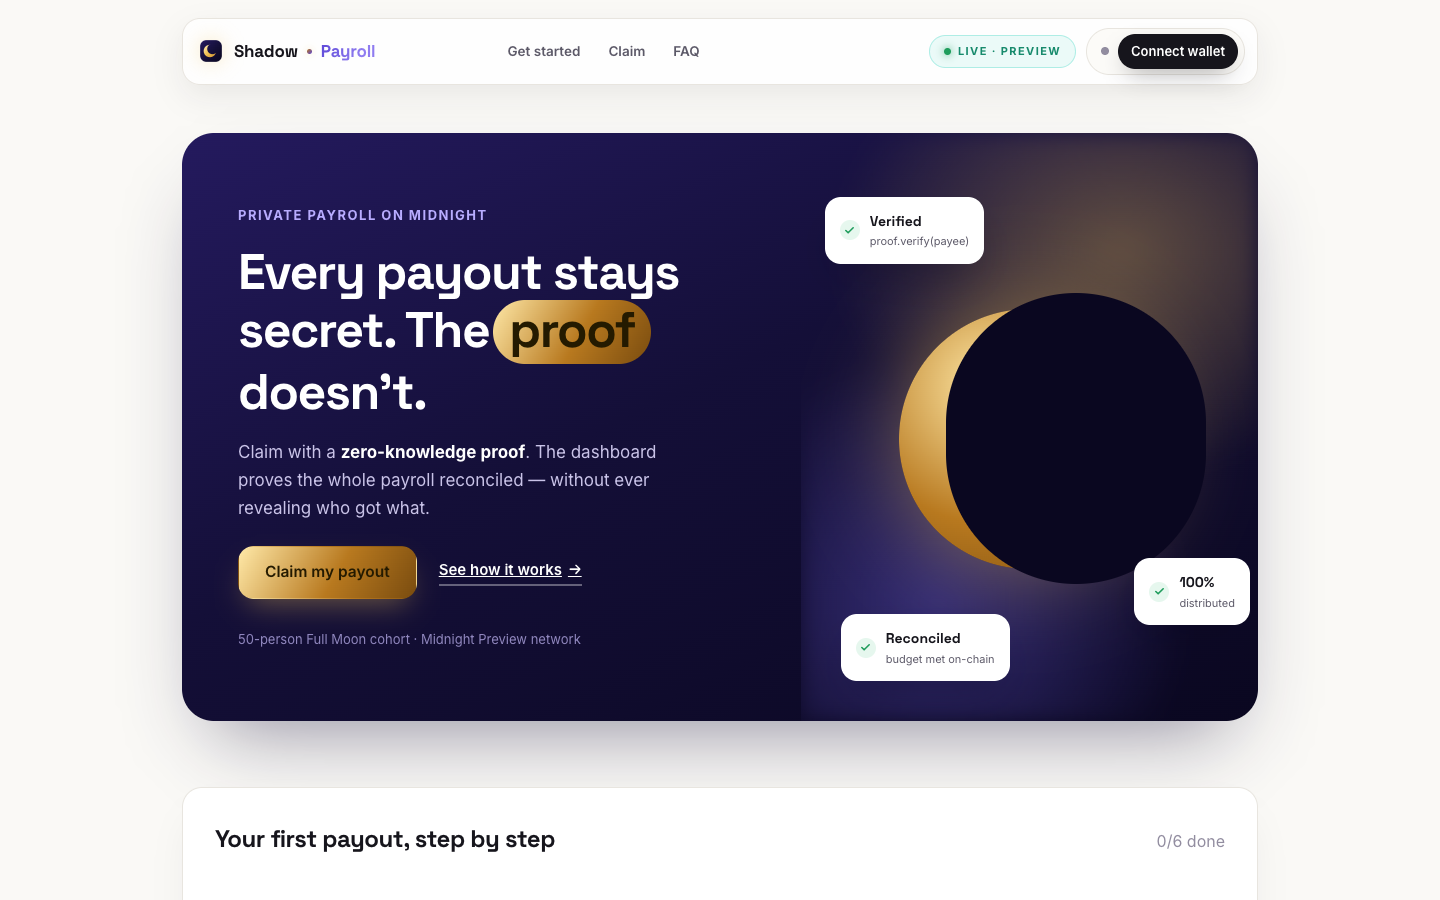
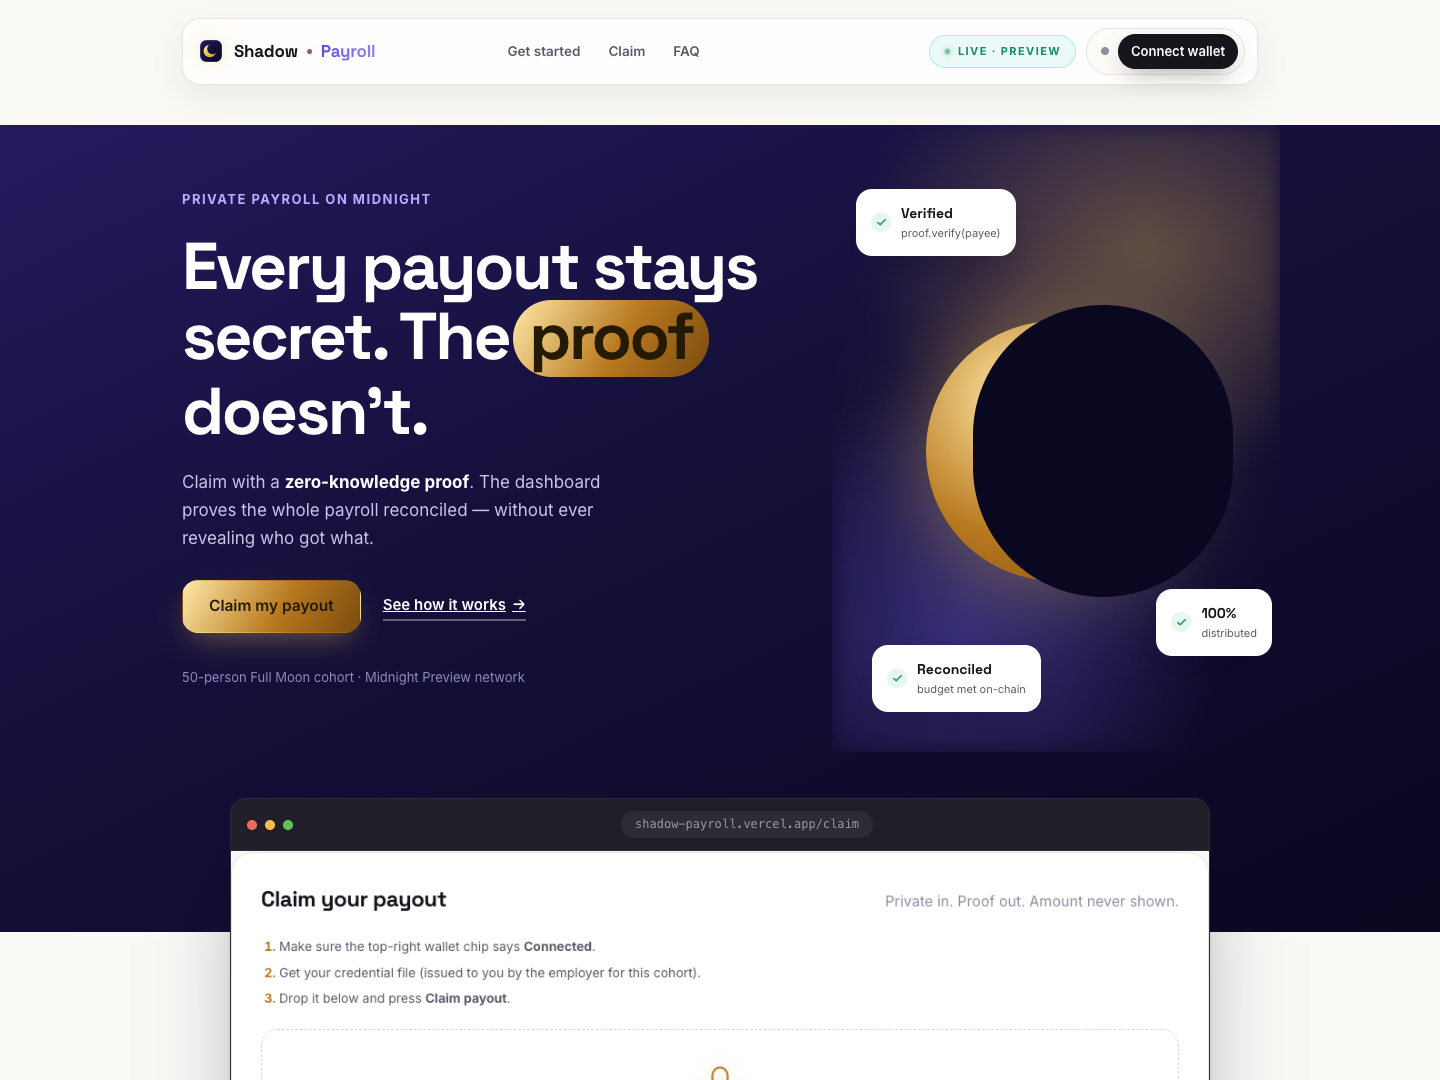
redesign(frontend): rebuild the hero and onboarding from real UI references
Reviewer feedback was explicit: not another AI-prompted tweak pass, but
a rebuild grounded in real design references. Studied Linear, Mercury,
and Deel directly (screenshotted, not guessed from memory) and borrowed
concretely from each — see docs/DESIGN.md for the reference-by-reference
breakdown of what was studied and what changed as a result.

- Hero breaks full-bleed out of the page's 1120px container (Mercury)
  instead of sitting boxed with the same rounded-card treatment as every
  other section.
- Headline scale bumped ~35% (clamp 40-68px, -2.5px tracking, 1.04
  line-height) for actual visual confidence (Linear).
- New product-proof section: a real, browser-chrome-framed screenshot of
  the claim panel straddling the hero/page boundary (Linear's "show the
  actual product" convention) — previously nothing on the page proved
  the product was real, only copy and illustrative cards.
- Onboarding steps rebuilt as a connected vertical timeline (rail behind
  numbered nodes) instead of six identical stacked bordered boxes — the
  clearest "assembled from a component library" tell on the page.
- Removed the reflexive hover-lift applied to every section card
  regardless of whether it was interactive.

diff --git a/frontend/src/App.css b/frontend/src/App.css
@@ -659,28 +659,116 @@ a {
 
 /* ---------- Hero ---------- */
 
+/* Full-bleed: breaks out of .page's max-width so the hero reads as the
+   dominant moment on the page, not another rounded card in the stack.
+   overflow-x: clip on html/body (see top of file) keeps the 100vw trick
+   from introducing horizontal scroll. */
 .hero {
-  position: relative;
-  padding: 22px 0 40px;
-}
-
-/* The one bold graphic moment on an otherwise calm, light page. Re-scopes
-   the shared tokens the same way .status-card does, so every descendant
-   rule below resolves against the dark palette instead of the page's
-   light one. */
-.hero__card {
   --text-primary: #ffffff;
   --text-secondary: #c9c3e8;
   --text-muted: #8f86bd;
 
   position: relative;
-  display: grid;
-  grid-template-columns: 1.15fr 0.85fr;
-  border-radius: 32px;
-  overflow: hidden;
-  min-height: 540px;
+  width: 100vw;
+  margin-left: calc(50% - 50vw);
+  margin-right: calc(50% - 50vw);
+  margin-top: 14px;
+  padding-bottom: 180px;
   background: linear-gradient(155deg, #241a5e 0%, #140f38 45%, #0a0720 100%);
-  box-shadow: 0 40px 80px -30px rgba(20, 15, 56, 0.45);
+  overflow: hidden;
+}
+
+/* The product proof: a real screenshot of the claim panel, framed like a
+   browser window and pulled up to straddle the hero/page boundary. This
+   is the one thing pure copy-and-cards can't fake -- it shows the actual
+   product instead of describing it. */
+.mockup-section {
+  position: relative;
+  margin-top: -160px;
+  margin-bottom: 8px;
+  z-index: 4;
+  display: flex;
+  justify-content: center;
+}
+
+.mockup-frame {
+  width: 100%;
+  max-width: 980px;
+  border-radius: 16px;
+  overflow: hidden;
+  background: #1c1a24;
+  border: 1px solid rgba(255, 255, 255, 0.08);
+  box-shadow: 0 50px 90px -30px rgba(10, 7, 32, 0.55), 0 0 0 1px rgba(10, 7, 32, 0.04);
+}
+
+.mockup-frame__bar {
+  display: flex;
+  align-items: center;
+  gap: 8px;
+  padding: 12px 16px;
+  background: #201e29;
+  border-bottom: 1px solid rgba(255, 255, 255, 0.06);
+}
+
+.mockup-frame__dot {
+  width: 10px;
+  height: 10px;
+  border-radius: 999px;
+  background: rgba(255, 255, 255, 0.16);
+}
+
+.mockup-frame__dot--red { background: #ec6a5e; }
+.mockup-frame__dot--yellow { background: #f4bf4f; }
+.mockup-frame__dot--green { background: #61c454; }
+
+.mockup-frame__url {
+  margin: 0 auto;
+  padding: 4px 14px;
+  border-radius: 999px;
+  background: rgba(255, 255, 255, 0.06);
+  color: rgba(255, 255, 255, 0.5);
+  font-size: 12px;
+  font-family: ui-monospace, SFMono-Regular, Menlo, monospace;
+}
+
+.mockup-frame__img {
+  display: block;
+  width: 100%;
+  height: auto;
+}
+
+@media (max-width: 700px) {
+  .hero {
+    padding-bottom: 120px;
+  }
+
+  .mockup-section {
+    margin-top: -100px;
+    padding: 0 14px;
+  }
+
+  .mockup-frame {
+    border-radius: 12px;
+  }
+
+  .mockup-frame__url {
+    max-width: 60vw;
+    white-space: nowrap;
+    overflow: hidden;
+    text-overflow: ellipsis;
+  }
+}
+
+/* max-width matches .page (1120px) so the hero column's left edge lines
+   up exactly under the header/logo above it, even though the hero itself
+   bleeds full-width behind it. */
+.hero__card {
+  position: relative;
+  display: grid;
+  grid-template-columns: 1.2fr 0.8fr;
+  max-width: 1120px;
+  margin: 0 auto;
+  min-height: 620px;
 }
 
 .hero__content {
@@ -688,8 +776,8 @@ a {
   flex-direction: column;
   align-items: flex-start;
   justify-content: center;
-  gap: 18px;
-  padding: 72px 56px;
+  gap: 22px;
+  padding: 64px 22px;
   position: relative;
   z-index: 2;
 }
@@ -707,10 +795,10 @@ a {
   position: relative;
   margin: 0;
   font-family: var(--font-display);
-  font-size: clamp(36px, 3.6vw, 50px);
-  line-height: 1.12;
+  font-size: clamp(40px, 4.6vw, 68px);
+  line-height: 1.04;
   font-weight: 700;
-  letter-spacing: -1.5px;
+  letter-spacing: -2.5px;
   color: var(--text-primary);
 }
 
@@ -900,13 +988,6 @@ a {
   background: #ffffff;
   border: 1px solid var(--hairline);
   box-shadow: 0 20px 44px -18px rgba(22, 21, 28, 0.12);
-  transition: transform 0.28s ease, box-shadow 0.28s ease, border-color 0.28s ease;
-}
-
-.card:hover {
-  transform: translateY(-3px);
-  border-color: var(--hairline-strong);
-  box-shadow: 0 26px 54px -18px rgba(22, 21, 28, 0.16);
 }
 
 .section-heading {
@@ -956,37 +1037,51 @@ a {
 
 /* ---------- Onboarding checklist ---------- */
 
+/* A connected timeline, not a stack of identical bordered boxes: a rail
+   runs behind the toggle circles, tying the six steps into one sequence
+   instead of six unrelated cards. */
 .check-list {
   list-style: none;
   margin: 0;
   padding: 0;
   display: flex;
   flex-direction: column;
-  gap: 12px;
 }
 
 .check-row {
   display: flex;
-  gap: 15px;
+  gap: 18px;
   align-items: flex-start;
-  padding: 16px 18px;
-  background: var(--surface-glass-2);
-  border: 1px solid var(--hairline);
-  border-radius: 16px;
-  transition: border-color 0.2s ease, background 0.2s ease, transform 0.2s ease;
+  position: relative;
+  padding: 0 4px 34px;
 }
 
-.check-row:hover {
-  border-color: var(--hairline-strong);
-  transform: translateY(-1px);
+.check-row:last-child {
+  padding-bottom: 4px;
+}
+
+.check-row::before {
+  content: '';
+  position: absolute;
+  left: 17px;
+  top: 32px;
+  bottom: 6px;
+  width: 1px;
+  background: var(--hairline-strong);
+}
+
+.check-row:last-child::before {
+  display: none;
 }
 
 .check-row__toggle {
+  position: relative;
+  z-index: 1;
   flex: 0 0 28px;
   width: 28px;
   height: 28px;
   margin-top: 2px;
-  border-radius: 10px;
+  border-radius: 999px;
   border: 1px solid var(--hairline-strong);
   background: var(--surface-glass-3);
   color: var(--status-good);
@@ -1767,7 +1862,6 @@ a {
   .hero__card {
     grid-template-columns: 1fr;
     min-height: 0;
-    border-radius: 24px;
   }
 
   .hero__content {

diff --git a/frontend/src/App.tsx b/frontend/src/App.tsx
@@ -99,6 +99,23 @@ export default function App() {
         <main className="layout" id="top">
           <Hero />
 
+          <div className="mockup-section" aria-hidden="true">
+            <div className="mockup-frame">
+              <div className="mockup-frame__bar">
+                <span className="mockup-frame__dot mockup-frame__dot--red" />
+                <span className="mockup-frame__dot mockup-frame__dot--yellow" />
+                <span className="mockup-frame__dot mockup-frame__dot--green" />
+                <span className="mockup-frame__url">shadow-payroll.vercel.app/claim</span>
+              </div>
+              <img
+                src="/mockup-claim.png"
+                alt=""
+                className="mockup-frame__img"
+                loading="lazy"
+              />
+            </div>
+          </div>
+
           <OnboardingChecklist />
 
           <ClaimPanel />

diff --git a/docs/DESIGN.md b/docs/DESIGN.md
@@ -1,0 +1,39 @@
+# Design references
+
+Reviewer feedback (2026-09) asked for a frontend built from real UI
+references, not iterative tweaks to the existing layout. This is the
+record of what was actually looked at and what was borrowed from each,
+so the result is traceable rather than a claim.
+
+## References
+
+| Product | What was studied | What was borrowed |
+|---|---|---|
+| [Linear](https://linear.app) | Oversized, tight-leading headline (`letter-spacing: -2.5px`, `line-height: 1.04`); a dimmed, real product screenshot placed directly under the headline instead of illustrative copy | The hero type scale (`clamp(40px, 4.6vw, 68px)`), and the "prove it's real" pattern: a browser-chrome-framed screenshot of the actual claim panel, not a mockup graphic |
+| [Mercury](https://mercury.com) | Full-bleed hero that ignores the page's content width entirely; restraint — one message, generous negative space, no competing cards | Made the hero break out of `.page`'s 1120px constraint (`width: 100vw` + negative margins) instead of sitting boxed on the page background like every other section |
+| [Deel](https://deel.com) | Split hero with a photo/visual on one side annotated by small floating white cards (`+150 Currencies`, `O-1A Visa Approved`) that show real product state at a glance | The three floating "proof" cards (`Verified`, `Reconciled`, `100% distributed`) over the moon visual — kept from the previous iteration, since the pattern already matched this reference |
+
+## What changed as a direct result
+
+- **Hero**: went from a rounded card floating on the page background (same
+  treatment as every other section) to a full-bleed dark panel that reads
+  as the dominant moment on the page, with a headline roughly 35% larger
+  and tighter-set than before.
+- **Product proof section** (new): a browser-chrome-framed screenshot of
+  the real claim panel, pulled up to straddle the hero/page boundary. This
+  is the single biggest gap the previous iterations had — everything was
+  copy and illustrative cards, nothing showed the actual product.
+- **Onboarding steps**: went from six identical bordered boxes (the
+  clearest "assembled from a component library" tell on the page) to a
+  connected vertical timeline with a rail running behind numbered nodes —
+  one sequence, not six unrelated cards.
+- **Removed the reflexive hover-lift** (`transform: translateY(-3px)`) that
+  was applied to every section card regardless of whether it was
+  interactive. Onboarding, Claim, and FAQ aren't clickable as whole cards;
+  they shouldn't animate like they are.
+
+## What was deliberately left alone
+
+FAQ and footer already read as intentional, not generic, when checked
+against the same references (accordion pattern, minimal footer meta row)
+— they weren't rebuilt for the sake of rebuilding.

diff --git a/docs/FEEDBACK.md b/docs/FEEDBACK.md
@@ -27,6 +27,7 @@ triggered them:
 | Simplified the brand mark from a 6-layer badge (crescent + shield + check + sparkle + double ring + glow filter) to a single clean crescent — illegible at 16–24px before, reads clearly now | “Have a proper logo that gives product vibe” — repeated reviewer feedback | Shipped (`Logo.tsx`, `favicon.svg`) |
 | Removed duplicate "LIVE · PREVIEW" badge (was shown in both the header and the hero), removed the 3 floating annotation tags haphazardly overlapping the hero panel edges, cut the hero chip row from 3 to 2 | “The UI needs more effort … work on it” — reviewer feedback | Shipped (`Hero.tsx`, `App.css`) |
 | Removed the redundant "Connect wallet" + "Connect" pair of buttons that both opened the same modal — now a single button | Same UI-polish pass | Shipped (`WalletBar.tsx`) |
+| Rebuilt the frontend from concrete UI references (Linear, Mercury, Deel) instead of iterating on the existing layout: full-bleed hero (was boxed like every other section), ~35% larger/tighter headline, a new browser-framed screenshot of the real claim panel (previously nothing showed the actual product), onboarding steps rebuilt as a connected timeline (was six identical bordered boxes), removed the reflexive hover-lift on non-interactive section cards | "When I say 'work on the frontend,' it does not mean simply prompting an AI tool to make minor fixes... Look for proper UI templates and design references, then build a polished frontend based on them." — reviewer feedback, 2026-09-28 | Shipped (`Hero.tsx`, `App.tsx`, `App.css`, see [docs/DESIGN.md](DESIGN.md) for the reference-by-reference breakdown) |
 
 ---
 

diff --git a/README.md b/README.md
@@ -20,6 +20,10 @@ A wallet-connected audit dashboard with a real "Claim a payout" flow
 (runs the proof locally, submits through Lace, watches the on-chain running
 total move). See [docs/USAGE.md](docs/USAGE.md) for the step-by-step guide.
 
+The frontend was rebuilt from concrete UI references (Linear, Mercury,
+Deel) rather than iterated on blind — see [docs/DESIGN.md](docs/DESIGN.md)
+for exactly what was studied and what changed as a result.
+
 ## Contract Address
 
 | Network | Address | Status |
